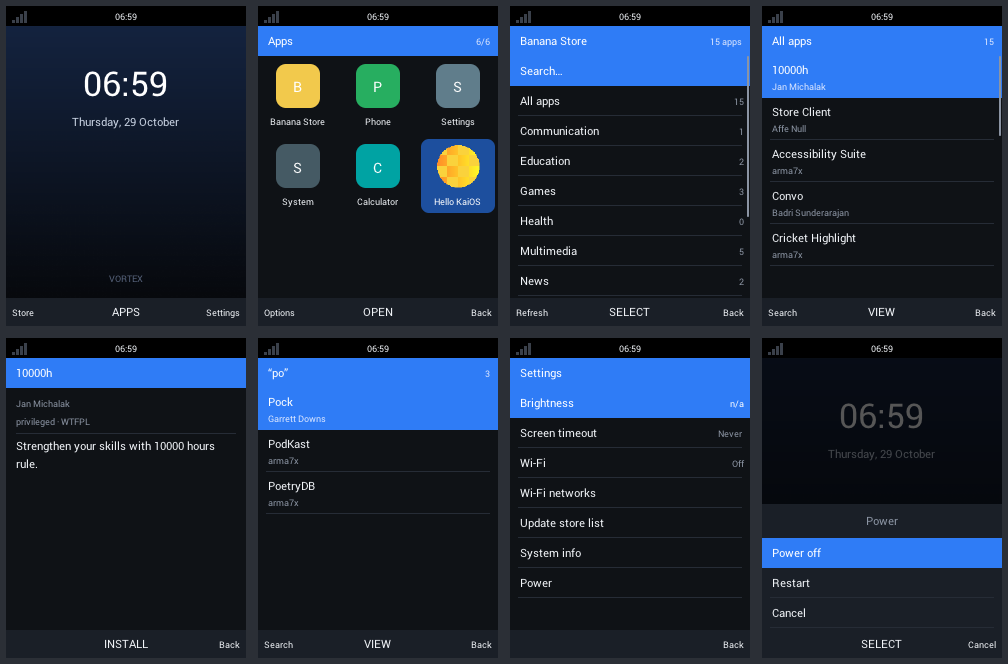
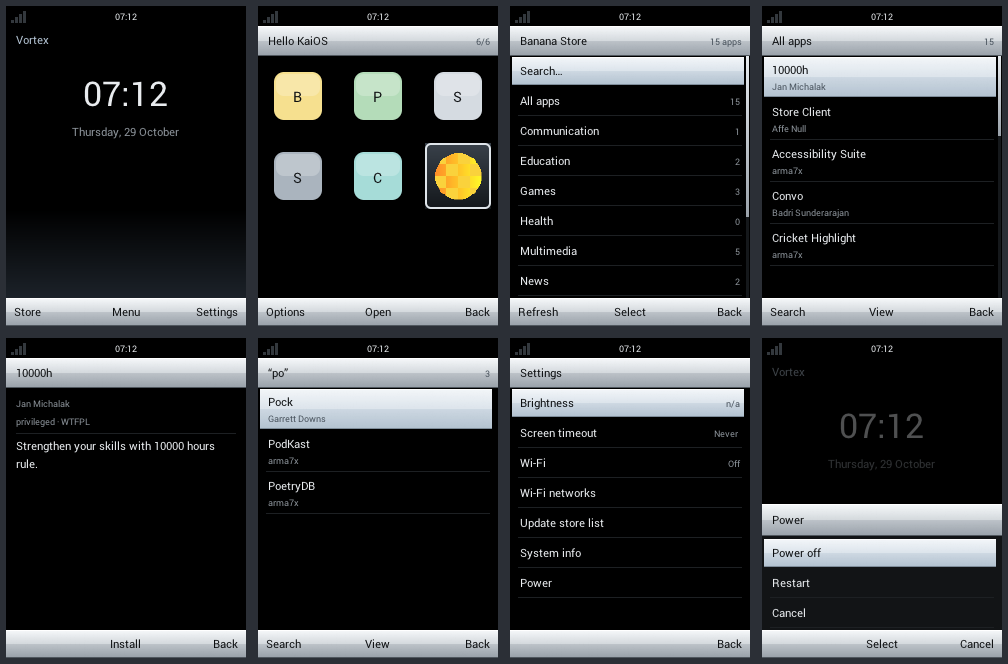
shell: Nokia S40/S30+ style theme
Black background, brushed-chrome title and soft-key bars, pale
silver-blue selection bars, pastel icon tiles with a chrome focus frame,
app name in the menu grid title bar, "Menu" centre soft key. Also fix
stroke_rect's interior skip jumping backwards (hang on small rounded
frames).

Claude-Session: https://claude.ai/code/session_01N9VPPnFEWY95bb1HLrJGxQ

diff --git a/shell/src/ui.c b/shell/src/ui.c
@@ -24,12 +24,19 @@
 #define ROW_H 30
 #define ROW2_H 42
 
-/* KaiOS-like dark theme. */
+/* Nokia S40 / S30+ inspired theme: black screen, brushed-chrome title and
+ * soft-key bars, pale silver selection bars, pastel accents. */
 #define C(rgb) nk_rgb(((rgb) >> 16) & 0xff, ((rgb) >> 8) & 0xff, (rgb) & 0xff)
 static const struct {
-    uint32_t bg, panel, status, accent, accent_dim, text, dim, warn, ok, sep;
+    uint32_t bg, panel, status, accent, accent_dim, text, dim, warn, ok, sep, ink, ink_dim;
 } T = {
-    0x0f1216, 0x1a1f27, 0x000000, 0x2f7cf6, 0x1d4f9e, 0xf1f4f8, 0x8b94a3, 0xf2994a, 0x3ecf8e, 0x262c36,
+    .bg = 0x000000, .panel = 0x121416, .status = 0x000000,
+    .accent = 0xb4c4d4,     /* pale steel blue: focus rings, spinner */
+    .accent_dim = 0x2b3138,
+    .text = 0xe9ecef, .dim = 0x8c939a,
+    .warn = 0xf1cf8f, .ok = 0xa8dcb0, .sep = 0x1d2023,
+    .ink = 0x0d0f11,        /* text on chrome / selection */
+    .ink_dim = 0x46505a,
 };
 
 static struct nk_command_buffer *cv;
@@ -85,6 +92,33 @@ static void fill(struct nk_rect r, float round, uint32_t col)
     nk_fill_rect(cv, r, round, C(col));
 }
 
+/* Vertical gradient (Nuklear corner order: TL, TR, BR, BL). */
+static void vgrad(struct nk_rect r, uint32_t top, uint32_t bottom)
+{
+    nk_fill_rect_multi_color(cv, r, C(top), C(top), C(bottom), C(bottom));
+}
+
+/* Brushed chrome: bright upper half, darker lower half with a crisp
+ * reflection line in the middle, light rim on top, dark rim below. */
+static void chrome(struct nk_rect r)
+{
+    float half = (float)(int)(r.h / 2);
+    vgrad(nk_rect(r.x, r.y, r.w, half), 0xf6f8fa, 0xd5dade);
+    vgrad(nk_rect(r.x, r.y + half, r.w, r.h - half), 0xbcc2c8, 0x9aa2aa);
+    fill(nk_rect(r.x, r.y, r.w, 1), 0, 0xffffff);
+    fill(nk_rect(r.x, r.y + r.h - 1, r.w, 1), 0, 0x50575e);
+}
+
+/* Pale silver-blue selection bar, like the S40 list highlight. */
+static void highlight(struct nk_rect r)
+{
+    float half = (float)(int)(r.h / 2);
+    vgrad(nk_rect(r.x, r.y, r.w, half), 0xf3f6f9, 0xdde5ec);
+    vgrad(nk_rect(r.x, r.y + half, r.w, r.h - half), 0xcdd8e2, 0xb4c3d1);
+    fill(nk_rect(r.x, r.y, r.w, 1), 0, 0xffffff);
+    fill(nk_rect(r.x, r.y + r.h - 1, r.w, 1), 0, 0x7f8d9a);
+}
+
 static struct nk_rect content_rect(int with_header)
 {
     float top = SB_H + (with_header ? HDR_H : 0);
@@ -137,9 +171,9 @@ static void status_bar(void)
     strftime(clock, sizeof(clock), "%H:%M", &tm);
     fill(nk_rect(0, 0, w, SB_H), 0, T.status);
 
-    /* Wi-Fi: three arcs approximated by bars of rising height. */
+    /* Wi-Fi: S40-style bars of rising height. */
     for (int i = 0; i < 4; i++)
-        fill(nk_rect(6 + i * 4, 14 - i * 3, 3, 3 + i * 3), 0, S->sys.wifi_up ? T.text : 0x3a404a);
+        fill(nk_rect(5 + i * 4, 14 - i * 3, 3, 3 + i * 3), 0, S->sys.wifi_up ? T.text : 0x33383d);
     if (S->job != JOB_NONE || S->store.fetch_pid > 0)
         label(nk_rect(28, 0, 40, SB_H), "\xe2\x86\x93", f, T.accent, AL_LEFT); /* ↓ activity */
 
@@ -150,35 +184,38 @@ static void status_bar(void)
         float bx = w - 30, fillw = 18.f * S->sys.battery / 100.f;
         snprintf(pct, sizeof(pct), "%d%%", S->sys.battery);
         label(nk_rect(bx - 40, 0, 36, SB_H), pct, f, T.text, AL_RIGHT);
-        nk_stroke_rect(cv, nk_rect(bx, 5, 22, 11), 2, 1, C(T.text));
-        fill(nk_rect(bx + 22, 8, 2, 5), 0, T.text);
-        fill(nk_rect(bx + 2, 7, fillw, 7), 0,
-             S->sys.charging ? T.ok : S->sys.battery <= 15 ? T.warn : T.text);
+        nk_stroke_rect(cv, nk_rect(bx, 5, 22, 11), 1, 1, C(T.dim));
+        fill(nk_rect(bx + 22, 8, 2, 5), 0, T.dim);
+        /* four segments, like the classic battery indicator */
+        for (int i = 0; i < 4 && i * 25 < S->sys.battery; i++)
+            fill(nk_rect(bx + 2 + i * 4.5f, 7, 3.5f, 7), 0,
+                 S->sys.charging ? T.ok : S->sys.battery <= 15 ? T.warn : T.text);
+        (void)fillw;
     }
 }
 
 static void header(const char *title, const char *sub)
 {
     float w = (float)S->surf->w;
-    fill(nk_rect(0, SB_H, w, HDR_H), 0, T.accent);
+    chrome(nk_rect(0, SB_H, w, HDR_H));
     if (sub && *sub) {
-        label(nk_rect(10, SB_H, w * 0.6f - 10, HDR_H), title, S->fonts.normal, 0xffffff, AL_LEFT);
-        label(nk_rect(w * 0.6f, SB_H, w * 0.4f - 8, HDR_H), sub, S->fonts.small, 0xdde7ff, AL_RIGHT);
+        label(nk_rect(10, SB_H, w * 0.68f - 10, HDR_H), title, S->fonts.normal, T.ink, AL_LEFT);
+        label(nk_rect(w * 0.68f, SB_H, w * 0.32f - 8, HDR_H), sub, S->fonts.small, T.ink_dim, AL_RIGHT);
     } else {
-        label(nk_rect(10, SB_H, w - 20, HDR_H), title, S->fonts.normal, 0xffffff, AL_LEFT);
+        label(nk_rect(10, SB_H, w - 20, HDR_H), title, S->fonts.normal, T.ink, AL_LEFT);
     }
 }
 
 static void softkeys(const char *l, const char *c, const char *r)
 {
     float w = (float)S->surf->w, y = S->surf->h - SK_H;
-    fill(nk_rect(0, y, w, SK_H), 0, T.panel);
+    chrome(nk_rect(0, y, w, SK_H));
     if (l)
-        label(nk_rect(6, y, w / 3 - 6, SK_H), l, S->fonts.small, T.text, AL_LEFT);
+        label(nk_rect(8, y, w / 3 - 8, SK_H), l, S->fonts.normal, T.ink, AL_LEFT);
     if (c)
-        label(nk_rect(w / 3, y, w / 3, SK_H), c, S->fonts.normal, T.text, AL_CENTER);
+        label(nk_rect(w / 3, y, w / 3, SK_H), c, S->fonts.normal, T.ink, AL_CENTER);
     if (r)
-        label(nk_rect(w * 2 / 3, y, w / 3 - 6, SK_H), r, S->fonts.small, T.text, AL_RIGHT);
+        label(nk_rect(w * 2 / 3, y, w / 3 - 8, SK_H), r, S->fonts.normal, T.ink, AL_RIGHT);
 }
 
 static void spinner(float cx, float cy, float rad)
@@ -187,7 +224,7 @@ static void spinner(float cx, float cy, float rad)
     for (int i = 0; i < 8; i++) {
         float a = i * 3.14159265f / 4;
         int age = (phase - i + 8) % 8;
-        uint32_t col = age == 0 ? T.text : age < 3 ? T.dim : 0x3a404a;
+        uint32_t col = age == 0 ? T.text : age < 3 ? T.accent : 0x3a4148;
         nk_fill_circle(cv, nk_rect(cx + rad * cosf(a) - 2.5f, cy + rad * sinf(a) - 2.5f, 5, 5), C(col));
     }
 }
@@ -213,7 +250,8 @@ static void scrollbar(struct nk_rect area, int top, int rows, int count)
     h = area.h * rows / count;
     if (h < 12) h = 12;
     y = area.y + (area.h - h) * top / (count - rows);
-    fill(nk_rect(area.x + area.w - 3, y, 2, h), 1, T.dim);
+    fill(nk_rect(area.x + area.w - 4, area.y, 3, area.h), 1, 0x15181b);
+    vgrad(nk_rect(area.x + area.w - 4, y, 3, h), 0xe6eaee, 0x9aa2aa);
 }
 
 static void list_row(struct nk_rect r, int selected, const char *title, const char *sub,
@@ -222,19 +260,19 @@ static void list_row(struct nk_rect r, int selected, const char *title, const ch
     const struct nk_font *f = S->fonts.normal;
     float rw = right ? text_w(S->fonts.small, right, (int)strlen(right)) + 10 : 0;
     if (selected)
-        fill(r, 0, T.accent);
+        highlight(nk_rect(r.x + 2, r.y + 1, r.w - 8, r.h - 2));
     else
         fill(nk_rect(r.x + 8, r.y + r.h - 1, r.w - 16, 1), 0, T.sep);
     if (sub) {
-        label(nk_rect(r.x + 10, r.y + 3, r.w - 20 - rw, r.h / 2), title, f, selected ? 0xffffff : T.text, AL_LEFT);
+        label(nk_rect(r.x + 10, r.y + 3, r.w - 20 - rw, r.h / 2), title, f, selected ? T.ink : T.text, AL_LEFT);
         label(nk_rect(r.x + 10, r.y + r.h / 2 - 1, r.w - 20 - rw, r.h / 2), sub, S->fonts.small,
-              selected ? 0xdde7ff : T.dim, AL_LEFT);
+              selected ? T.ink_dim : T.dim, AL_LEFT);
     } else {
-        label(nk_rect(r.x + 10, r.y, r.w - 20 - rw, r.h), title, f, selected ? 0xffffff : T.text, AL_LEFT);
+        label(nk_rect(r.x + 10, r.y, r.w - 20 - rw, r.h), title, f, selected ? T.ink : T.text, AL_LEFT);
     }
     if (right)
-        label(nk_rect(r.x + r.w - rw - 6, r.y, rw, r.h), right, S->fonts.small,
-              selected ? 0xffffff : right_col, AL_RIGHT);
+        label(nk_rect(r.x + r.w - rw - 10, r.y, rw, r.h), right, S->fonts.small,
+              selected ? T.ink_dim : right_col, AL_RIGHT);
 }
 
 static void toast_overlay(void)
@@ -247,7 +285,8 @@ static void toast_overlay(void)
         msg = S->toast;
     if (!msg)
         return;
-    fill(nk_rect(8, y, w - 16, 28), 6, 0x2a313c);
+    fill(nk_rect(8, y, w - 16, 28), 4, T.panel);
+    nk_stroke_rect(cv, nk_rect(8, y, w - 16, 28), 4, 1, C(0x9aa2aa));
     if (S->job != JOB_NONE) {
         spinner(24, y + 14, 6);
         label(nk_rect(38, y, w - 54, 28), msg, S->fonts.small, T.text, AL_LEFT);
@@ -615,12 +654,13 @@ static void draw_home(void)
     localtime_r(&t, &tm);
     strftime(hm, sizeof(hm), "%H:%M", &tm);
     strftime(date, sizeof(date), "%A, %e %B", &tm);
-    nk_fill_rect_multi_color(cv, nk_rect(0, SB_H, w, h - SB_H - SK_H), C(0x14233f), C(0x14233f),
-                             C(0x07090d), C(0x07090d));
-    label(nk_rect(0, SB_H + 34, w, S->fonts.clock->handle.height), hm, S->fonts.clock, 0xffffff, AL_CENTER);
-    label(nk_rect(0, SB_H + 40 + S->fonts.clock->handle.height, w, 22), date, S->fonts.normal, 0xc9d3e3, AL_CENTER);
-    label(nk_rect(0, h - SK_H - 30, w, 20), "VORTEX", S->fonts.small, 0x56627a, AL_CENTER);
-    softkeys("Store", "APPS", "Settings");
+    fill(nk_rect(0, SB_H, w, h - SB_H - SK_H), 0, T.bg);
+    /* soft silver glow at the bottom of the standby screen */
+    vgrad(nk_rect(0, h - SK_H - 90, w, 90), 0x000000, 0x1c2229);
+    label(nk_rect(10, SB_H + 4, w - 20, 20), "Vortex", S->fonts.normal, T.accent, AL_LEFT);
+    label(nk_rect(0, SB_H + 44, w, S->fonts.clock->handle.height), hm, S->fonts.clock, T.text, AL_CENTER);
+    label(nk_rect(0, SB_H + 50 + S->fonts.clock->handle.height, w, 22), date, S->fonts.normal, T.dim, AL_CENTER);
+    softkeys("Store", "Menu", "Settings");
 }
 
 #define GRID_COLS 3
@@ -636,7 +676,7 @@ static void draw_launcher(void)
     const struct vx_app *sel = &S->apps.list[S->launcher_sel];
 
     snprintf(sub, sizeof(sub), "%d/%d", S->launcher_sel + 1, count);
-    header("Apps", sub);
+    header(sel->name, sub);
     keep_visible(sel_row, &S->launcher_top, rows, total_rows);
     for (int r = 0; r < rows; r++) {
         for (int c = 0; c < GRID_COLS; c++) {
@@ -644,12 +684,16 @@ static void draw_launcher(void)
             struct nk_rect cell = nk_rect(area.x + c * cw, area.y + r * ch, cw, ch);
             struct vx_app *a;
             struct vx_image *icon;
-            float isz = 44, ix = cell.x + (cw - isz) / 2, iy = cell.y + 8;
+            float isz = 48, ix = cell.x + (cw - isz) / 2, iy = cell.y + (ch - isz) / 2;
             if (i >= count)
                 continue;
             a = &S->apps.list[i];
-            if (i == S->launcher_sel)
-                fill(nk_rect(cell.x + 3, cell.y + 3, cw - 6, ch - 6), 8, T.accent_dim);
+            if (i == S->launcher_sel) {
+                /* chrome frame around the focused icon */
+                struct nk_rect fr = nk_rect(ix - 9, iy - 9, isz + 18, isz + 18);
+                vgrad(fr, 0x39414a, 0x14181c);
+                nk_stroke_rect(cv, fr, 6, 2, C(0xdfe5ea));
+            }
             icon = apps_icon(&S->apps, i, (int)isz);
             if (icon) {
                 struct nk_image img = nk_image_ptr(icon);
@@ -662,15 +706,15 @@ static void draw_launcher(void)
                 memcpy(letter, a->name, (size_t)(bl > 0 && bl < 5 ? bl : 0));
                 nk_fill_rect(cv, nk_rect(ix, iy, isz, isz), 10,
                              nk_rgb((a->color >> 16) & 0xff, (a->color >> 8) & 0xff, a->color & 0xff));
+                /* glossy top half */
+                nk_fill_rect(cv, nk_rect(ix + 2, iy + 2, isz - 4, isz / 2 - 2), 8, nk_rgba(255, 255, 255, 60));
                 label(nk_rect(ix, iy, isz, isz), letter, cp <= 0xff ? S->fonts.large : S->fonts.normal,
-                      0xffffff, AL_CENTER);
+                      T.ink, AL_CENTER);
             }
-            label(nk_rect(cell.x + 2, iy + isz + 4, cw - 4, 18), a->name, S->fonts.small,
-                  i == S->launcher_sel ? 0xffffff : T.text, AL_CENTER);
         }
     }
     scrollbar(area, S->launcher_top, rows, total_rows);
-    softkeys(sel->kind == APP_KAIOS ? "Options" : NULL, "OPEN", "Back");
+    softkeys(sel->kind == APP_KAIOS ? "Options" : NULL, "Open", "Back");
 }
 
 static void draw_store(void)
@@ -727,7 +771,7 @@ static void draw_store(void)
                  right[0] ? right : NULL, T.dim);
     }
     scrollbar(area, S->store_cat_top, rows, n);
-    softkeys("Refresh", "SELECT", "Back");
+    softkeys("Refresh", "Select", "Back");
 }
 
 static void draw_store_list(void)
@@ -759,7 +803,7 @@ static void draw_store_list(void)
                  inst ? "Installed" : NULL, T.ok);
     }
     scrollbar(area, S->list_top, rows, S->list_n);
-    softkeys("Search", "VIEW", "Back");
+    softkeys("Search", "View", "Back");
 }
 
 struct wrapdraw { float x, y, lh; int first, last; uint32_t col; };
@@ -815,7 +859,7 @@ static void draw_store_detail(void)
     nk_push_scissor(cv, nk_rect(0, 0, S->surf->w, S->surf->h));
     scrollbar(nk_rect(area.x, y, area.w, area.y + area.h - y), S->detail_scroll, vis, S->detail_lines);
 
-    softkeys(inst ? "Open" : NULL, inst ? "UPDATE" : "INSTALL", "Back");
+    softkeys(inst ? "Open" : NULL, inst ? "Update" : "Install", "Back");
 }
 
 static void draw_settings(void)
@@ -832,7 +876,7 @@ static void draw_settings(void)
                  NULL, val[0] ? val : NULL, T.dim);
     }
     scrollbar(area, S->settings_top, rows, SET_COUNT);
-    softkeys(NULL, S->settings_sel <= SET_TIMEOUT ? NULL : "SELECT", "Back");
+    softkeys(NULL, S->settings_sel <= SET_TIMEOUT ? NULL : "Select", "Back");
 }
 
 static void draw_wifi(void)
@@ -857,7 +901,7 @@ static void draw_wifi(void)
         list_row(nk_rect(area.x, area.y + r * ROW_H, area.w, ROW_H), i == S->wifi_sel, S->wifi_ssid[i],
                  NULL, right, T.dim);
     }
-    softkeys("Rescan", "CONNECT", "Back");
+    softkeys("Rescan", "Connect", "Back");
 }
 
 static void draw_sysinfo(void)
@@ -891,7 +935,7 @@ static void draw_dialer(void)
           S->dial[0] ? S->dial : "Enter number", S->fonts.large, S->dial[0] ? T.text : T.dim, AL_CENTER);
     if (S->call_active)
         label(nk_rect(0, area.y + 110, area.w, 20), "Press End to hang up", S->fonts.small, T.dim, AL_CENTER);
-    softkeys(S->dial[0] ? "Clear" : NULL, "CALL", "Back");
+    softkeys(S->dial[0] ? "Clear" : NULL, "Call", "Back");
 }
 
 static void draw_input(void)
@@ -905,10 +949,10 @@ static void draw_input(void)
     header(title, t9_mode_label(&S->t9));
     if (S->input == INPUT_WIFI_PSK)
         label(nk_rect(10, area.y + 6, area.w - 20, 20), S->wifi_target, S->fonts.small, T.dim, AL_LEFT);
-    fill(nk_rect(8, fy, area.w - 16, 34), 4, T.panel);
-    nk_stroke_rect(cv, nk_rect(8, fy, area.w - 16, 34), 4, 1, C(T.accent));
+    fill(nk_rect(8, fy, area.w - 16, 34), 2, 0xf2f4f6);
+    nk_stroke_rect(cv, nk_rect(8, fy, area.w - 16, 34), 2, 1, C(0x7f8d9a));
     snprintf(shown, sizeof(shown), "%s|", S->t9.text);
-    label(nk_rect(16, fy, area.w - 32, 34), shown, S->fonts.normal, T.text, AL_LEFT);
+    label(nk_rect(16, fy, area.w - 32, 34), shown, S->fonts.normal, T.ink, AL_LEFT);
     if (S->input == INPUT_SEARCH) {
         int tmp[512];
         char res[32];
@@ -932,10 +976,11 @@ static void draw_menu(void)
     /* dim the screen underneath */
     nk_fill_rect(cv, nk_rect(0, SB_H, w, S->surf->h - SB_H), 0, nk_rgba(0, 0, 0, 170));
     fill(nk_rect(0, my, w, mh), 0, T.panel);
-    label(nk_rect(10, my, w - 20, 34), title, S->fonts.normal, T.dim, AL_CENTER);
+    chrome(nk_rect(0, my, w, 32));
+    label(nk_rect(10, my, w - 20, 32), title, S->fonts.normal, T.ink, AL_LEFT);
     for (int i = 0; i < n; i++)
         list_row(nk_rect(0, my + 34 + i * ROW_H, w, ROW_H), i == S->menu_sel, items[i], NULL, NULL, 0);
-    softkeys(NULL, "SELECT", "Cancel");
+    softkeys(NULL, "Select", "Cancel");
 }
 
 static void draw_screen(enum screen scr)

diff --git a/shell/src/apps.c b/shell/src/apps.c
@@ -15,8 +15,9 @@
 static uint32_t tile_colour(const char *s)
 {
     static const uint32_t pal[] = {
-        0xff2f80ed, 0xffeb5757, 0xff27ae60, 0xfff2994a,
-        0xff9b51e0, 0xff00a3a3, 0xffd6336c, 0xff5c7cfa,
+        /* pale pastels, read well with dark letters on black */
+        0xffa9c7e8, 0xfff0b4b4, 0xffb4dcb9, 0xfff3d2a2,
+        0xffcdb9e8, 0xffa6dcd8, 0xffeab8cf, 0xffc3cbf0,
     };
     uint32_t h = 2166136261u;
     while (*s)
@@ -106,10 +107,10 @@ void apps_scan(struct vx_apps *a, const char *apps_dir)
 
     apps_free(a);
     a->count = 0;
-    add_builtin(a, APP_BUILTIN_STORE, "vortex.store", "Banana Store", 0xfff2c94c);
-    add_builtin(a, APP_BUILTIN_DIALER, "vortex.dialer", "Phone", 0xff27ae60);
-    add_builtin(a, APP_BUILTIN_SETTINGS, "vortex.settings", "Settings", 0xff607d8b);
-    add_builtin(a, APP_BUILTIN_SYSINFO, "vortex.sysinfo", "System", 0xff455a64);
+    add_builtin(a, APP_BUILTIN_STORE, "vortex.store", "Banana Store", 0xfff6e08f);
+    add_builtin(a, APP_BUILTIN_DIALER, "vortex.dialer", "Phone", 0xffb4dcb9);
+    add_builtin(a, APP_BUILTIN_SETTINGS, "vortex.settings", "Settings", 0xffd5dbe1);
+    add_builtin(a, APP_BUILTIN_SYSINFO, "vortex.sysinfo", "System", 0xffaab4be);
     first_kai = a->count;
 
     d = opendir(apps_dir);

diff --git a/shell/src/gfx.c b/shell/src/gfx.c
@@ -150,10 +150,13 @@ static void stroke_rect(float fx, float fy, float fw, float fh, float r, float t
             /* ring of thickness t just inside the edge */
             float ring = fabsf(sd + t * .5f) - t * .5f;
             plot(x, y, c, cov_from_sd(ring));
-            /* skip the hollow interior quickly */
-            if (sd < -t - 1 && x > x0 + (int)r + 1 && x < x1 - (int)r - 2 &&
-                y > y0 + (int)t + 1 && y < y1 - (int)t - 2)
-                x = x1 - (int)ceilf(r + t) - 2;
+            /* skip the hollow interior quickly (only ever forward) */
+            if (sd < -t - 1 && x > x0 + (int)r + 1 && y > y0 + (int)ceilf(r + t) + 1 &&
+                y < y1 - (int)ceilf(r + t) - 2) {
+                int nx = x1 - (int)ceilf(t) - 2;
+                if (nx > x)
+                    x = nx;
+            }
         }
     }
 }

diff --git a/README.md b/README.md
@@ -4,7 +4,8 @@ Vortex is a Void Linux based distribution for KaiOS-class feature phones. The
 Nokia 6300 4G (`nokia-leo`, Snapdragon 210 / MSM8909, 512 MB RAM, 240×320
 screen, T9 keypad) is the primary target.
 
-* **Shell in Nuklear.** The home screen, launcher, app store, dialer and
+* **Shell in Nuklear, styled after Nokia S40/S30+** (black screens, chrome
+  title and soft-key bars, pale silver highlights). The home screen, launcher, app store, dialer and
   settings are one small C program, `vortex-shell`. It uses
   [Nuklear](https://github.com/Immediate-Mode-UI/Nuklear) and its own software
   rasteriser that draws to `/dev/fb0`.

diff --git a/docs/architecture.md b/docs/architecture.md
@@ -46,6 +46,12 @@ Memory rules the shell follows:
   writes to the framebuffer if the command list hash differs from the last
   frame.
 
+The look follows Nokia S40/S30+: black background, brushed-chrome title and
+soft-key bars, pale silver-blue selection bars, pastel icon tiles in a chrome
+focus frame, and the focused app's name in the title bar of the menu grid.
+The theme lives in the `T` table and the `chrome()`/`highlight()` helpers at
+the top of `ui.c`.
+
 Keys work as on KaiOS:
 
 * The soft keys run the actions labelled at the bottom of the screen.
